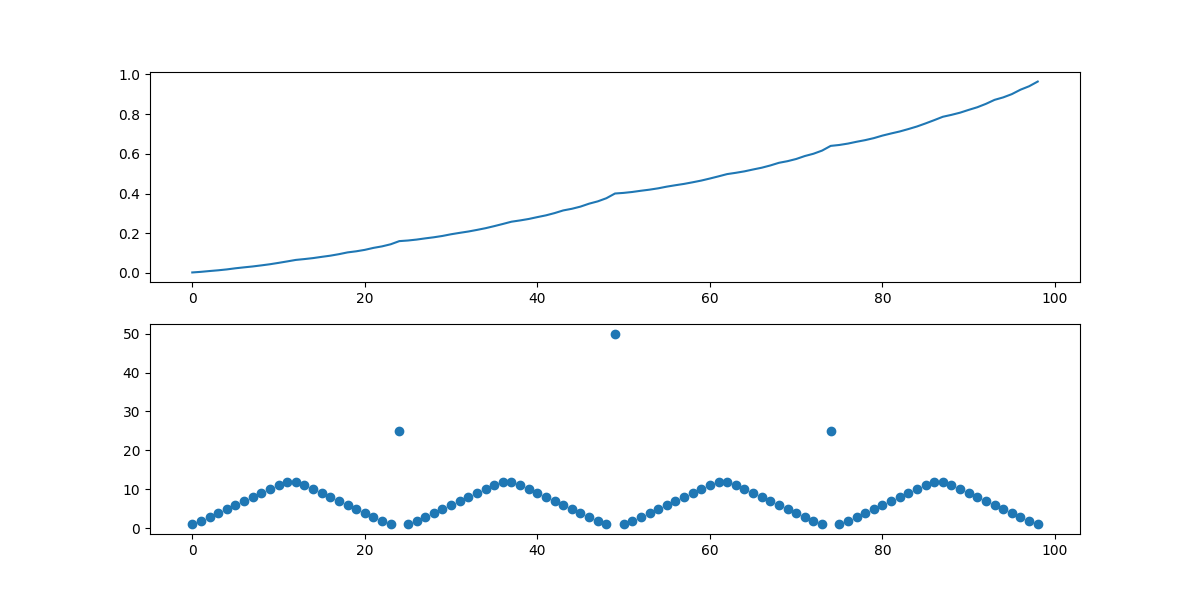
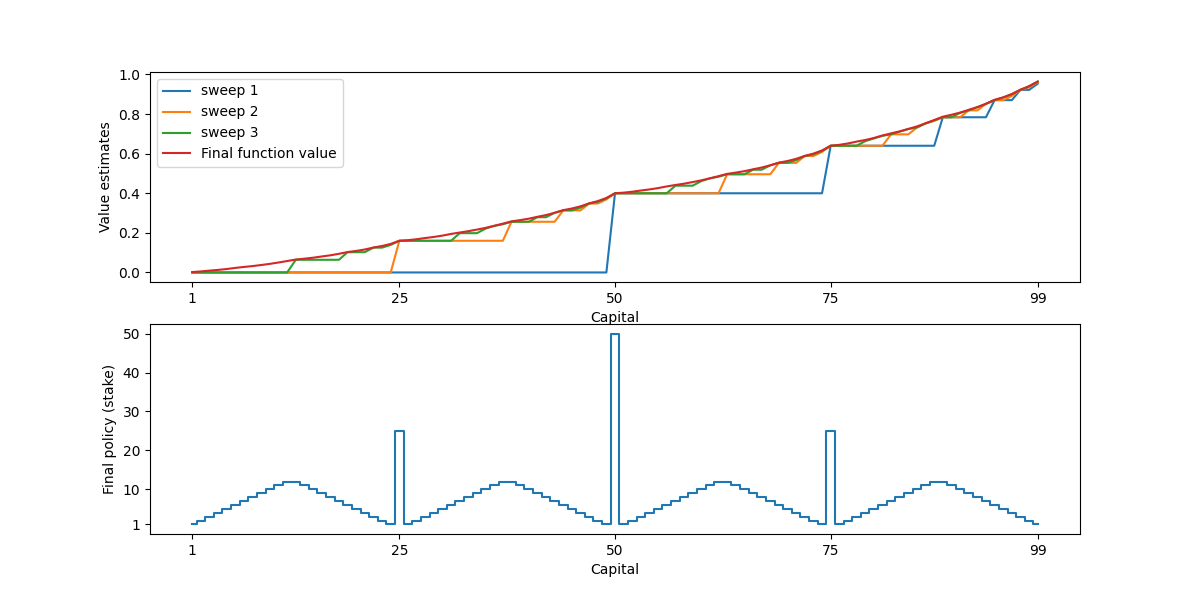
Nicier plot

diff --git a/chapter4/main.py b/chapter4/main.py
@@ -11,7 +11,7 @@ def figure_4_2():
     learner = DynamicPolicyLearner(RentalCarEnv, fixed_return=True)
 
     def plot_policy(
-        ax: plt.Axes = None,
+        ax: plt.Axes,
         title: str = "Value",
     ):
         img = np.flipud(learner.policy)
@@ -45,7 +45,7 @@ def figure_4_2():
         ax.set_title(title)
 
     def plot_value(
-        ax: plt.Axes = None,
+        ax: plt.Axes,
         title: str = "Value",
     ):
         x = np.arange(learner.obs_space_range)
@@ -95,20 +95,51 @@ def figure_4_3():
     )
 
     learner = DynamicPolicyLearner(GamblerEnv, eps=1e-12, initial_policy=initial_policy)
-    learner.policy_evaluation(max_iters=100)
-    learner.policy_improvement()
+
+    def plot_value(ax: plt.Axes):
+        ax.plot(np.arange(1, 100), learner.value)
+        xticks = [1, 25, 50, 75, 99]
+        yticks = np.round(np.linspace(0, 1, 6), 1)
+        ax.set_xticks(xticks)
+        ax.set_yticks(yticks)
+        ax.set_xticklabels(xticks)
+        ax.set_yticklabels(yticks)
+        ax.set_xlabel("Capital")
+        ax.set_ylabel("Value estimates")
+        ax.legend(
+            [f"sweep {s+1}" for s in range(max_plot_iter)] + ["Final function value"]
+        )
+
+    def plot_policy(ax: plt.Axes):
+        ax.step(np.arange(1, 100), learner.policy, where="mid")
+        xticks = [1, 25, 50, 75, 99]
+        yticks = [1] + [x * 10 for x in range(1, 6)]
+        ax.set_xticks(xticks)
+        ax.set_yticks(yticks)
+        ax.set_xticklabels(xticks)
+        ax.set_yticklabels(yticks)
+        ax.set_xlabel("Capital")
+        ax.set_ylabel("Final policy (stake)")
 
     fig = plt.figure(figsize=(12, 6))
 
+    # Plot value
     ax = fig.add_subplot(211)
-    ax.plot(learner.value)
+    max_plot_iter = 3
+    for i in range(30):
+        learner.policy_evaluation(max_iters=1)
+        if i < max_plot_iter:
+            plot_value(ax)
+    plot_value(ax)
 
+    # Plot policy
+    learner.policy_improvement()
     ax = fig.add_subplot(212)
-    ax.plot(learner.policy, marker="o", linestyle="")
+    plot_policy(ax)
 
     fig.savefig("figure_4_3.png", dpi=100)
 
 
 if __name__ == "__main__":
-    figure_4_2()
+    # figure_4_2()
     figure_4_3()
